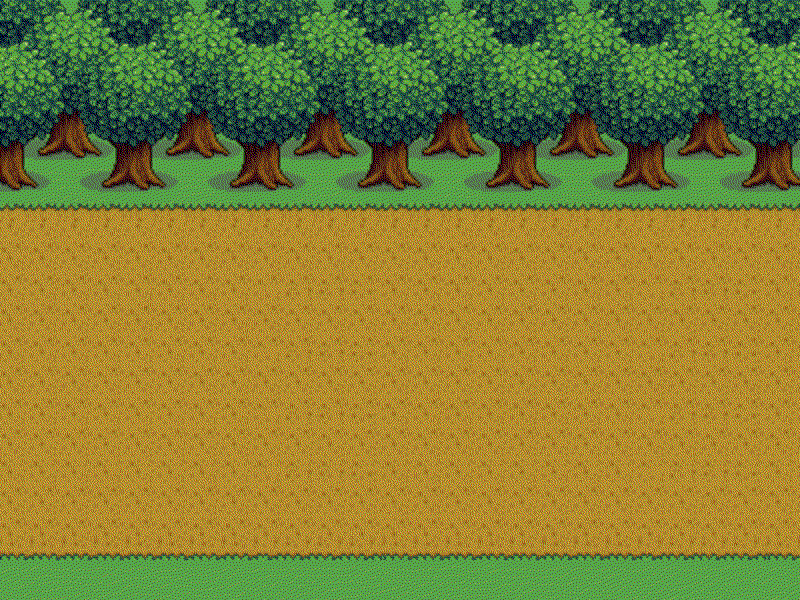
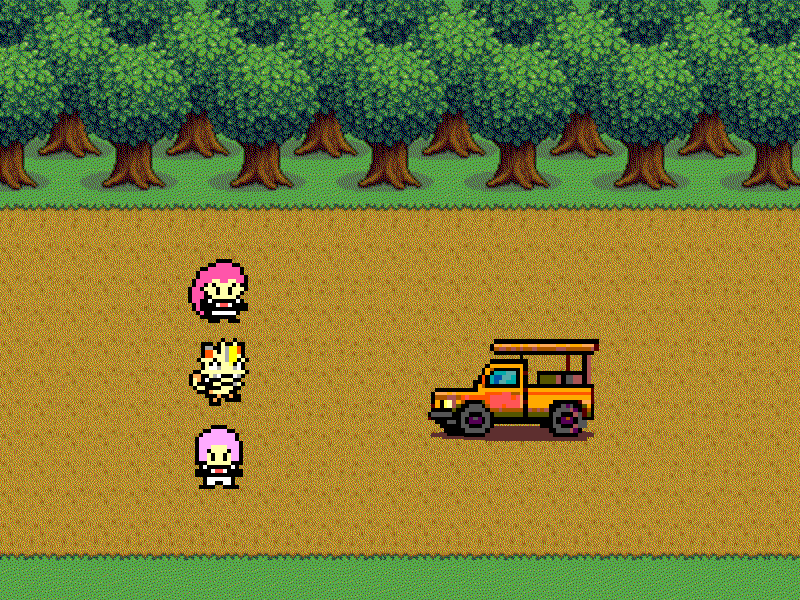
Gave some graphics to the safari!

Changed region(s): [[0.5312, 0.54, 0.75, 0.75], [0.2188, 0.57, 0.3125, 0.84], [0.2188, 0.42, 0.3125, 0.54]]

diff --git a/Pokemon_Sigma_Sapphire/Code/game_window.py b/Pokemon_Sigma_Sapphire/Code/game_window.py
@@ -1,12 +1,11 @@
 import tkinter as tk
 import file_IO
 import game_functions
-import safari
 import button_glow
 import skyblockPuzzle
 import random
 
-def run_game(playerData):
+def run_game(playerData, all_player_data):
 
     # the usual general setup
     gameWindow = tk.Tk()
@@ -78,13 +77,13 @@ def run_game(playerData):
 
                 # show the choice buttons!
                 choice1Button = tk.Button(safariFrame, text=opponent_tuple[0][0], font="Helvetica 14", command=lambda: select_opponent(0))
-                choice1Button.place(x=150, y=250, height=40, anchor="e")
+                choice1Button.place(x=150, y=280, height=40, anchor="e")
                 button_glow.bind_normal(choice1Button)
                 choice2Button = tk.Button(safariFrame, text=opponent_tuple[1][0], font="Helvetica 14", command=lambda: select_opponent(1))
-                choice2Button.place(x=150, y=350, height=40, anchor="e")
+                choice2Button.place(x=150, y=370, height=40, anchor="e")
                 button_glow.bind_normal(choice2Button)
                 choice3Button = tk.Button(safariFrame, text=opponent_tuple[2][0], font="Helvetica 14", command=lambda: select_opponent(2))
-                choice3Button.place(x=150, y=450, height=40, anchor="e")
+                choice3Button.place(x=150, y=460, height=40, anchor="e")
                 button_glow.bind_normal(choice3Button)
 
             def select_opponent(opponent):
@@ -117,8 +116,12 @@ def run_game(playerData):
 
                 if opponent_tuple[opponent][2]: # true if correct!
                     pokeList = file_IO.fetch_list("../PokeList_v3.csv", False)
-                    newPokemon = game_functions.catch_pokemon(playerData,pokeList[random.randint(1, 150)])
+                    newPokemon, playerData = game_functions.catch_pokemon(playerData,pokeList[random.randint(1, 150)])
                     candy_awarded = game_functions.award_candy(playerData)
+
+
+                    # save the player data
+                    game_functions.save_player_data(playerData, all_player_data, candy_awarded)
 
                     opponentNameLabel.configure(text="Team Rocket blasting off again!")
                     opponentRiddleLabel.configure(text=f"{opponent_tuple[opponent][0]} had your catch! You give Team Rocket the boot, gained {candy_awarded} candies, and added a pokemon to your team!"
